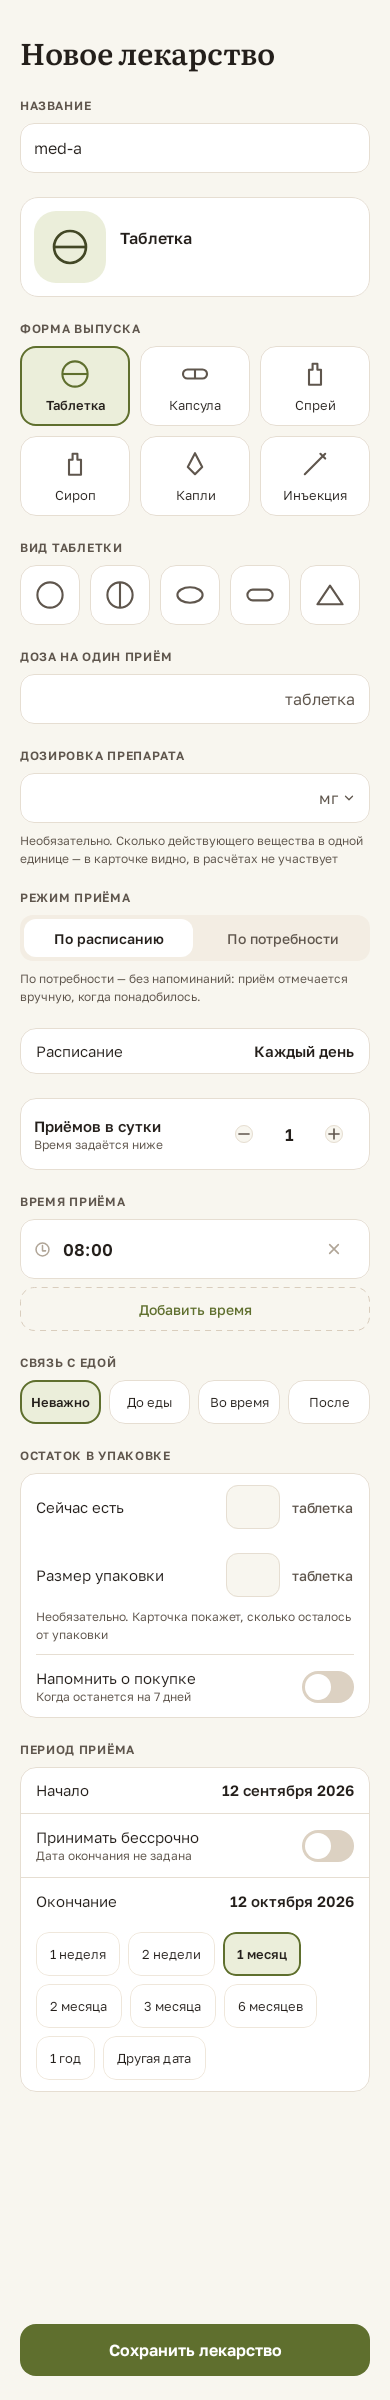
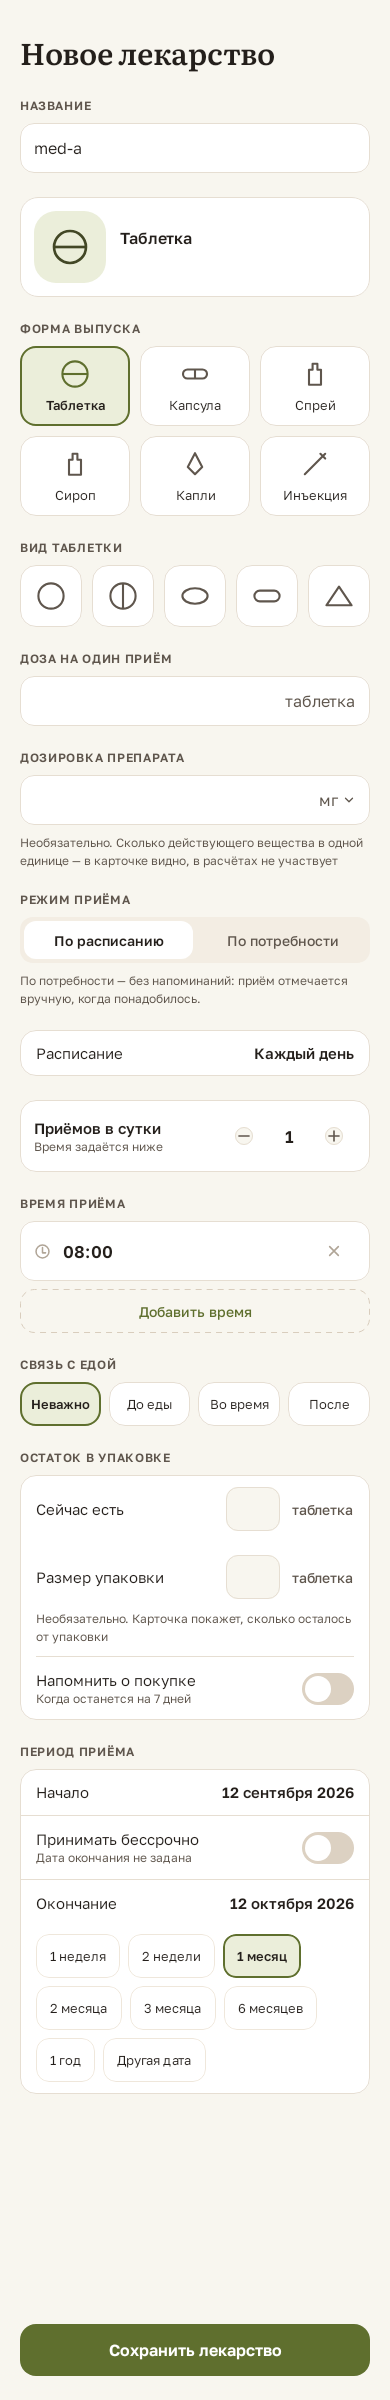
fix(SKL-155): keep tablet shape tiles equal across the row width

diff --git a/feature-meds/src/testDebug/kotlin/ru/stohastika/sklyanka/feature/meds/MedicationFormScreenTest.kt b/feature-meds/src/testDebug/kotlin/ru/stohastika/sklyanka/feature/meds/MedicationFormScreenTest.kt
@@ -1,5 +1,7 @@
 package ru.stohastika.sklyanka.feature.meds
 
+import androidx.compose.ui.semantics.SemanticsProperties
+import androidx.compose.ui.test.SemanticsMatcher
 import androidx.compose.ui.test.SemanticsNodeInteraction
 import androidx.compose.ui.test.assertCountEquals
 import androidx.compose.ui.test.assertHasNoClickAction
@@ -51,6 +53,8 @@ import ru.stohastika.sklyanka.feature.meds.form.TAG_TIMES_BLOCK
 import ru.stohastika.sklyanka.feature.meds.form.TAG_TIME_ROW
 import ru.stohastika.sklyanka.ui.component.TAG_SCREEN_HEADER
 import ru.stohastika.sklyanka.ui.theme.SklyankaTheme
+import ru.stohastika.sklyanka.ui.token.SklyankaSizes
+import ru.stohastika.sklyanka.ui.token.SklyankaSpacing
 import java.math.BigDecimal
 import java.time.LocalDate
 import java.time.LocalTime
@@ -63,7 +67,7 @@ import ru.stohastika.sklyanka.ui.R as UiR
  * компилироваться (`assembleDebugAndroidTest`), прогон — на эталонном устройстве.
  */
 @RunWith(AndroidJUnit4::class)
-@org.robolectric.annotation.Config(qualifiers = "w390dp-h2400dp-mdpi")
+@org.robolectric.annotation.Config(qualifiers = "w340dp-h2400dp-mdpi")
 class MedicationFormScreenTest {
 
     @get:Rule
@@ -134,6 +138,56 @@ class MedicationFormScreenTest {
             R.string.tablet_shape_triangular,
         ).forEach { id ->
             composeRule.onNodeWithContentDescription(context.getString(id)).assertIsDisplayed()
+        }
+    }
+
+    /**
+     * SKL-155: ряд «Вид таблетки» занимает всю ширину контента, пять плиток равны и квадратны.
+     *
+     * Ширина класса узкая намеренно: на 390 dp фиксированные 60 dp ещё помещаются, и старый
+     * дефект — последняя плитка, съеденная остатком ряда, — не виден. На 340 dp четыре целых
+     * плитки и объедок последней — ровно то, что нашёл владелец. Квалификатор стоит на классе,
+     * а не на методе: вторая песочница внутри одного класса не нужна, когда весь класс может
+     * идти на узкой опорной ширине; проектная ширина 390 dp остаётся под приёмкой и эталонами.
+     */
+    @Test
+    fun theTabletShapeRowFillsTheContentWidthWithEqualTiles() {
+        show(draft(form = MedicationForm.TABLET))
+
+        val density = composeRule.density
+        val row = composeRule.onNodeWithTag(TAG_TABLET_SHAPE_ROW).fetchSemanticsNode()
+        assertEquals(
+            "the shape row must stand on the section margin",
+            SklyankaSpacing.Section.value,
+            with(density) { row.boundsInRoot.left.toDp().value },
+            TOLERANCE,
+        )
+        assertEquals(
+            "the shape row must fill the content width",
+            340f - 2 * SklyankaSpacing.Section.value,
+            with(density) { row.size.width.toDp().value },
+            TOLERANCE,
+        )
+
+        val tiles = composeRule.onAllNodes(
+            hasAnyAncestor(hasTestTag(TAG_TABLET_SHAPE_ROW)) and
+                SemanticsMatcher.keyIsDefined(SemanticsProperties.ContentDescription),
+            useUnmergedTree = true,
+        ).fetchSemanticsNodes()
+        assertEquals("the shape row must offer five tiles", 5, tiles.size)
+
+        val widths = tiles.map { with(density) { it.size.width.toDp().value } }
+        val tile = (340f - 2 * SklyankaSpacing.Section.value - 4 * SklyankaSpacing.Default.value) / 5
+        assertEquals(
+            "every shape tile must be $tile dp wide",
+            listOf(tile, tile, tile, tile, tile),
+            widths,
+        )
+        widths.forEach { width ->
+            assertTrue(
+                "a shape tile is $width dp wide, below ${SklyankaSizes.MinTouchTarget} (НФТ-29)",
+                width >= SklyankaSizes.MinTouchTarget.value - TOLERANCE,
+            )
         }
     }
 
@@ -410,5 +464,8 @@ class MedicationFormScreenTest {
 
     private companion object {
         const val PROFILE_ID = "11111111-1111-4111-8111-111111111111"
+
+        /** Округление плотности может отнять доли точки; одной точки запаса хватает. */
+        const val TOLERANCE = 1f
     }
 }

diff --git a/feature-meds/src/main/kotlin/ru/stohastika/sklyanka/feature/meds/form/FormBlocks.kt b/feature-meds/src/main/kotlin/ru/stohastika/sklyanka/feature/meds/form/FormBlocks.kt
@@ -7,9 +7,9 @@ import androidx.compose.foundation.layout.Arrangement
 import androidx.compose.foundation.layout.Box
 import androidx.compose.foundation.layout.Column
 import androidx.compose.foundation.layout.Row
+import androidx.compose.foundation.layout.aspectRatio
 import androidx.compose.foundation.layout.fillMaxWidth
 import androidx.compose.foundation.layout.height
-import androidx.compose.foundation.layout.size
 import androidx.compose.material3.Text
 import androidx.compose.runtime.Composable
 import androidx.compose.runtime.getValue
@@ -162,11 +162,16 @@ internal fun ReleaseFormBlock(state: MedFormUiState, onIntent: (MedFormIntent) -
 }
 
 /**
- * «Вид таблетки» — ряд из пяти силуэтов.
+ * «Вид таблетки» — ряд из пяти силуэтов, занимающий всю ширину контента.
  *
  * Блок существует только для формы «таблетка» (ПР-9, ИНВ-16, ОВ-88); при смене
  * формы выпуска на неприменимую он не просто скрывается — выбранное значение
  * сбрасывается в черновике, иначе оно уедет в базу незаметно для человека.
+ *
+ * Плитки делят ширину ряда поровну (`weight`) и остаются квадратными (`aspectRatio`):
+ * фиксированные 60 dp на узком экране съедали остаток у последней плитки. Плитка не уже
+ * 44 dp (НФТ-29), пока ширина ряда не меньше 260 dp, то есть экран не уже 300 dp, — это
+ * граница поддерживаемых экранов.
  *
  * Видимого текста у кнопок нет, поэтому подписи для чтения с экрана обязательны
  * и взяты дословно из `aria-label` макета (НФТ-30).
@@ -178,14 +183,15 @@ internal fun TabletShapeBlock(state: MedFormUiState, onIntent: (MedFormIntent) -
     FormBlock(stringResource(R.string.form_label_tablet_shape), null, anchors) {
         Row(
             horizontalArrangement = Arrangement.spacedBy(SklyankaSpacing.Default),
-            modifier = Modifier.testTag(TAG_TABLET_SHAPE_ROW),
+            modifier = Modifier.fillMaxWidth().testTag(TAG_TABLET_SHAPE_ROW),
         ) {
             TabletShape.entries.forEach { shape ->
                 val selected = state.draft.shape == shape
                 val label = shape.label()
                 Box(
                     modifier = Modifier
-                        .size(SklyankaSizes.ShapeButton)
+                        .weight(1f)
+                        .aspectRatio(1f)
                         .background(
                             if (selected) colors.accentSoft else colors.surface,
                             SklyankaShapes.Large,

diff --git a/core-ui/src/main/kotlin/ru/stohastika/sklyanka/ui/token/SklyankaSizes.kt b/core-ui/src/main/kotlin/ru/stohastika/sklyanka/ui/token/SklyankaSizes.kt
@@ -210,8 +210,7 @@ object SklyankaSizes {
     val FormTile: Dp = 80.dp
     val FormTileGlyph: Dp = 30.dp
 
-    /** Кнопка вида таблетки и силуэт на ней (`AddMed.dc.html`). */
-    val ShapeButton: Dp = 60.dp
+    /** Силуэт на кнопке вида таблетки; плитка — квадрат по доле ширины ряда (`AddMed.dc.html`). */
     val ShapeGlyph: Dp = 30.dp
 
     /** Плитка и силуэт блока-превью выбора (§4.16, ОВ-94). */
